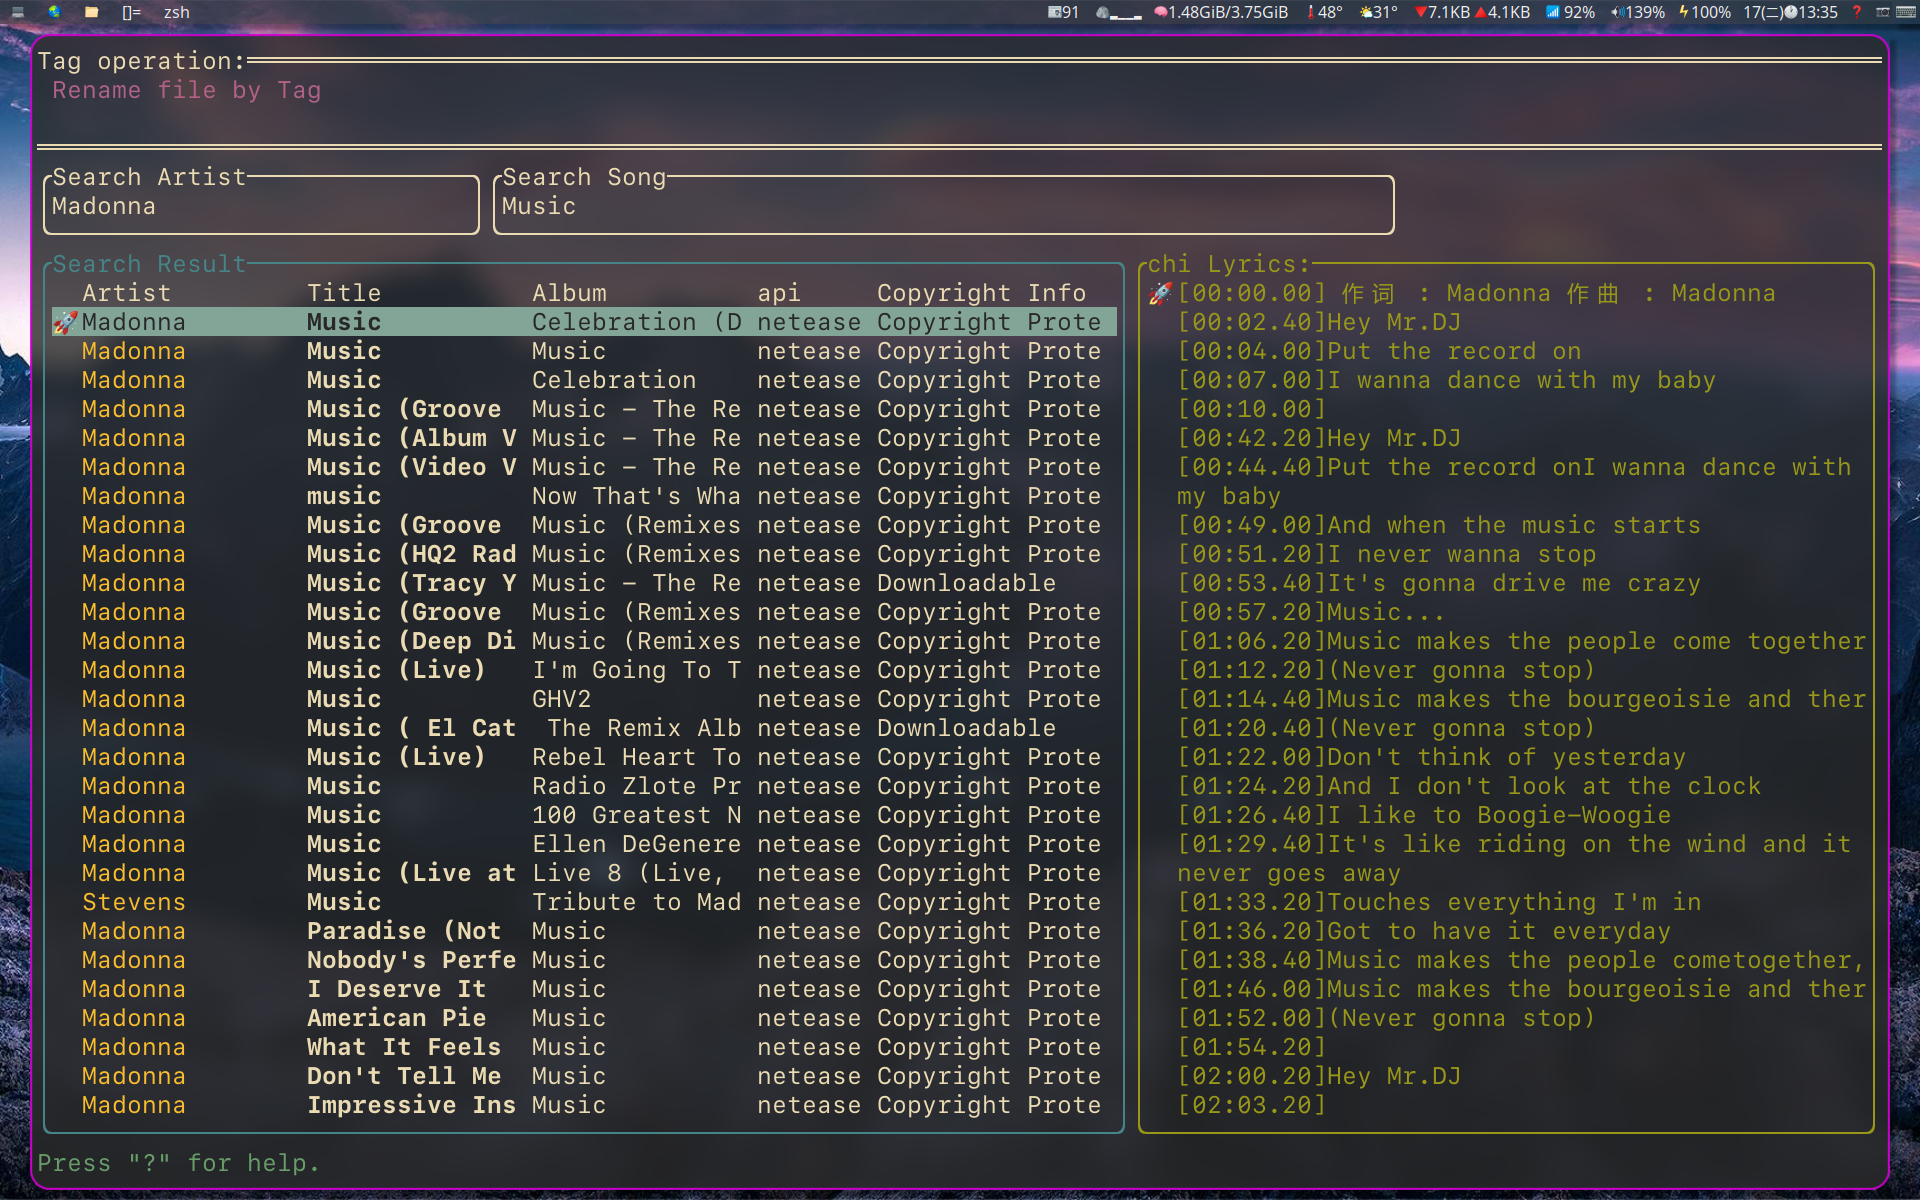
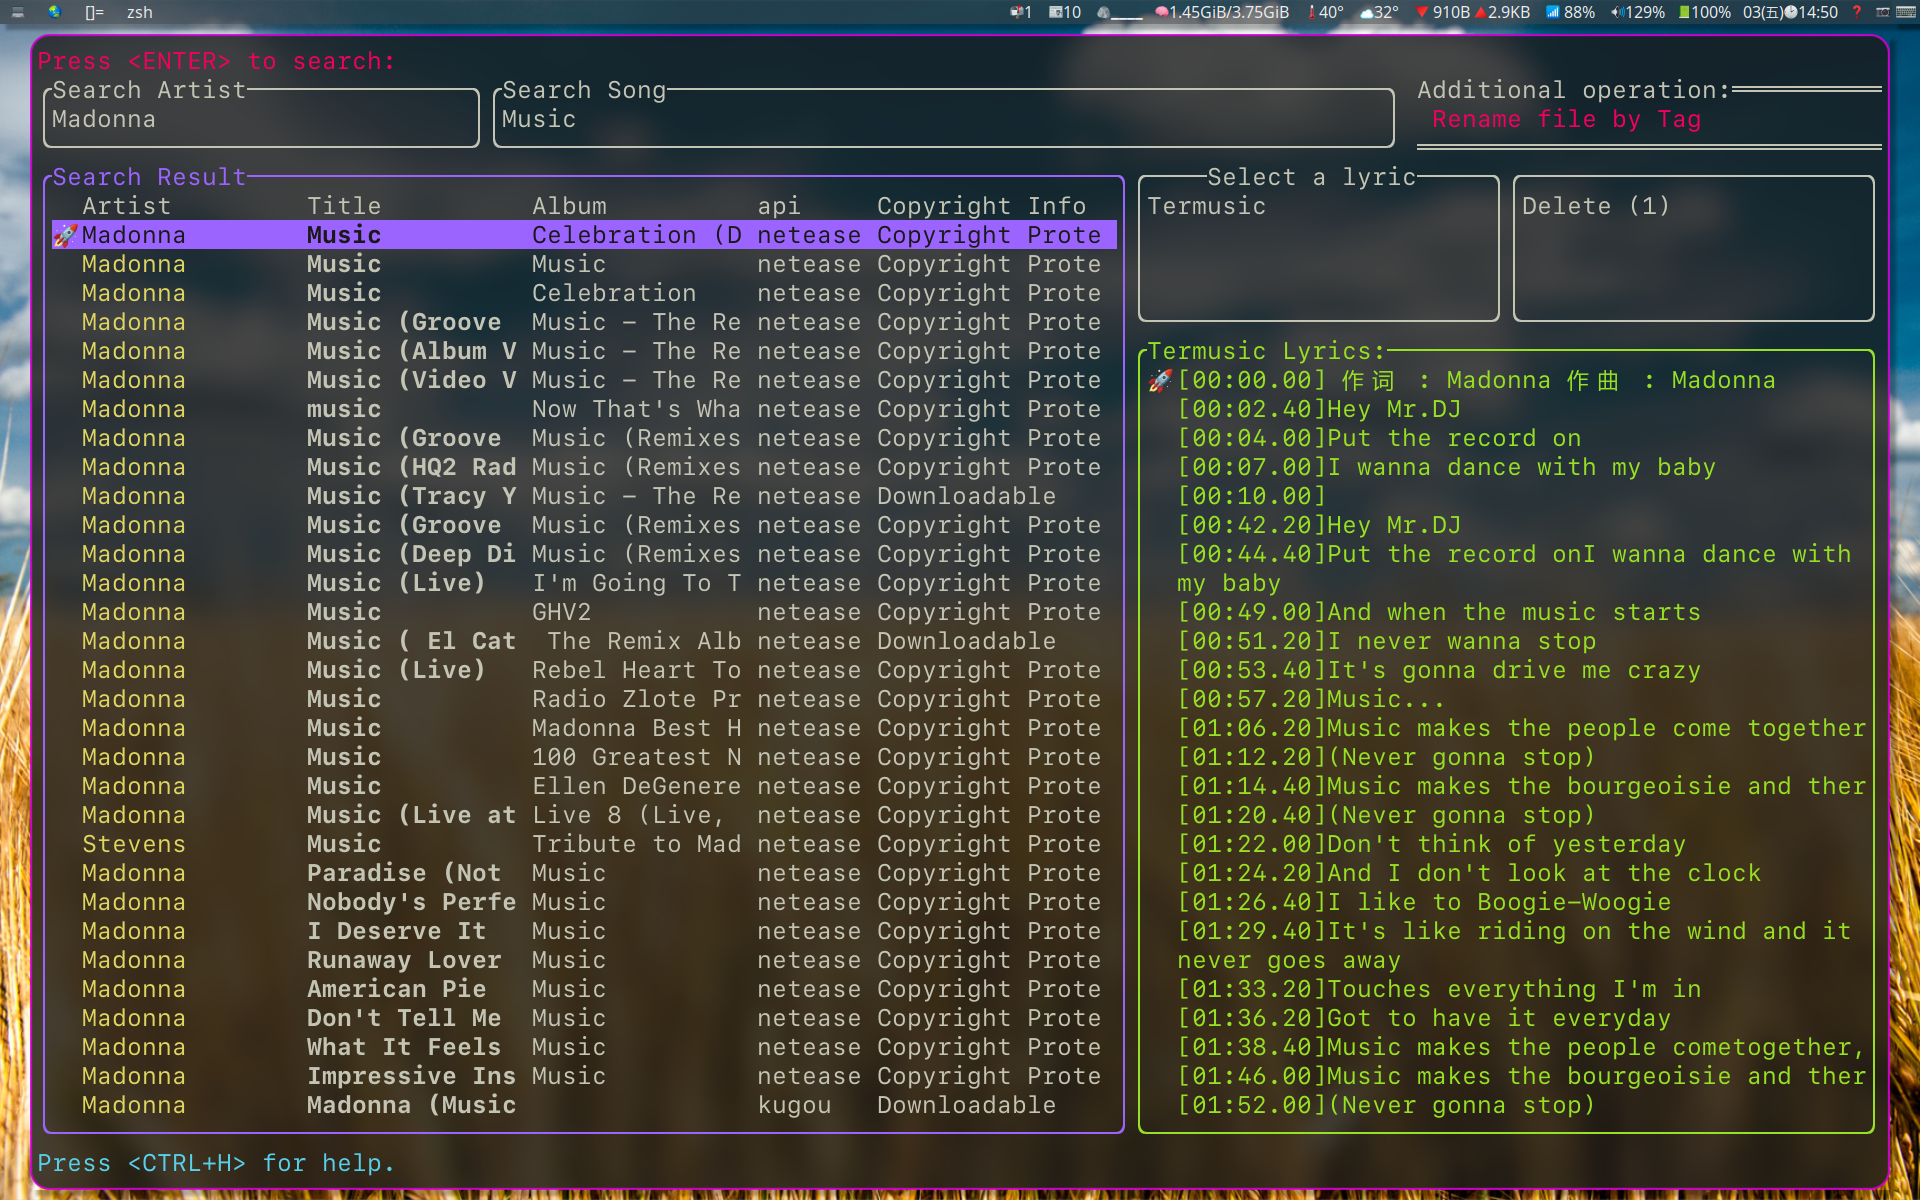
remove dependency of mp3-duration

diff --git a/src/song.rs b/src/song.rs
@@ -27,6 +27,7 @@ use anyhow::{anyhow, Result};
 use humantime::{format_duration, FormattedDuration};
 use id3::frame::{Lyrics, Picture, PictureType};
 use mp4ameta::{Img, ImgFmt};
+// use std::cmp::Ordering;
 use std::ffi::OsStr;
 use std::fs::rename;
 use std::path::Path;
@@ -44,7 +45,7 @@ pub struct Song {
     /// File path to the song
     pub file: Option<String>,
     /// Duration of the song
-    pub duration: Option<Duration>,
+    pub duration: Duration,
     /// Name of the song
     pub name: Option<String>,
     /// Extension of the song
@@ -91,9 +92,26 @@ impl Song {
     }
 
     pub fn duration(&self) -> FormattedDuration {
-        match self.duration.as_ref() {
-            Some(d) => format_duration(Duration::from_secs(d.as_secs())),
-            None => format_duration(Duration::from_secs(0)),
+        format_duration(Duration::from_secs(self.duration.as_secs()))
+    }
+    pub fn update_duration(&mut self) {
+        if let Some(s) = &self.file() {
+            if let Some(ext) = &self.ext {
+                match ext.as_str() {
+                    "mp3" => {
+                        let mut id3_tag = id3::Tag::new();
+                        if let Ok(t) = id3::Tag::read_from_path(s) {
+                            id3_tag = t;
+                        }
+
+                        let duration_player = GSTPlayer::duration(s);
+                        id3_tag.remove_duration();
+                        id3_tag.set_duration(duration_player.mseconds() as u32);
+                        let _ = id3_tag.write_to_path(s, id3::Version::Id3v24);
+                    }
+                    &_ => {}
+                }
+            }
         }
     }
 
@@ -241,10 +259,6 @@ impl FromStr for Song {
         match ext {
             Some("mp3") => {
                 let name = p.file_name().and_then(OsStr::to_str).map(|x| x.to_string());
-                let duration: Option<Duration> = match mp3_duration::from_path(s) {
-                    Ok(d) => Some(d),
-                    Err(_) => Some(Duration::from_secs(0)),
-                };
 
                 let id3_tag = match id3::Tag::read_from_path(s) {
                     Ok(tag) => tag,
@@ -281,7 +295,13 @@ impl FromStr for Song {
                     picture.push(p);
                 }
 
+                let duration = id3_tag
+                    .duration()
+                    .map(|d| Duration::from_millis(d.into()))
+                    .unwrap_or_else(|| Duration::from_secs(0));
+
                 let file = Some(String::from(s));
+
                 Ok(Self {
                     artist,
                     album,
@@ -299,8 +319,6 @@ impl FromStr for Song {
             Some("m4a") => {
                 let name = p.file_name().and_then(OsStr::to_str).map(|x| x.to_string());
 
-                let duration_u64 = GSTPlayer::duration_m4a(s);
-                let duration = Some(Duration::from_secs(duration_u64));
                 let m4a_tag = match mp4ameta::Tag::read_from_path(s) {
                     Ok(t) => t,
                     Err(_) => {
@@ -353,6 +371,8 @@ impl FromStr for Song {
                     });
                 }
 
+                let duration = m4a_tag.duration().unwrap_or_else(|| Duration::from_secs(0));
+
                 let file = Some(String::from(s));
                 Ok(Self {
                     artist,
@@ -373,7 +393,7 @@ impl FromStr for Song {
                 let album = Some(String::from("Not Support?"));
                 let title = Some(String::from(s));
                 let file = Some(String::from(s));
-                let duration = Some(Duration::from_secs(0));
+                let duration = Duration::from_secs(0);
                 let name = Some(String::from(""));
                 let parsed_lyric: Option<Lyric> = None;
                 let lyric_frames: Vec<Lyrics> = Vec::new();

diff --git a/src/ui/activity/main/update.rs b/src/ui/activity/main/update.rs
@@ -489,6 +489,34 @@ impl MainActivity {
         }
     }
 
+    pub fn update_progress_title(&mut self) {
+        if let Some(song) = &self.current_song {
+            let artist = song.artist().unwrap_or("Unknown Artist");
+            let title = song.title().unwrap_or("Unknown Title");
+            if let Some(props) = self.view.get_props(COMPONENT_PROGRESS) {
+                let props = ProgressBarPropsBuilder::from(props)
+                    // .with_progress(new_prog)
+                    .with_title(
+                        format!("Playing: {} - {}", artist, title),
+                        Alignment::Center,
+                    )
+                    .build();
+                let msg = self.view.update(COMPONENT_PROGRESS, props);
+                // self.redraw = true;
+                self.update(msg);
+            }
+        };
+    }
+
+    pub fn update_duration(&mut self) {
+        let (_new_prog, _time_pos, duration) = self.player.get_progress();
+        if let Some(song) = &mut self.current_song {
+            let diff = song.duration.as_secs() as i64 - duration;
+            if diff.abs() > 1 {
+                song.update_duration();
+            }
+        }
+    }
     pub fn update_progress(&mut self) {
         let (new_prog, time_pos, duration) = self.player.get_progress();
         if (new_prog, time_pos, duration) == (0.9, 0, 100) {
@@ -505,18 +533,11 @@ impl MainActivity {
             None => return,
         };
 
-        let artist = song.artist().unwrap_or("Unknown Artist");
-        let title = song.title().unwrap_or("Unknown Title");
-
         if time_pos > self.time_pos || time_pos < 2 {
             self.time_pos = time_pos;
             if let Some(props) = self.view.get_props(COMPONENT_PROGRESS) {
                 let props = ProgressBarPropsBuilder::from(props)
                     .with_progress(new_prog)
-                    .with_title(
-                        format!("Playing: {} - {}", artist, title),
-                        Alignment::Center,
-                    )
                     .with_label(format!(
                         "{}     :     {} ",
                         format_duration(Duration::from_secs(time_pos as u64)),

diff --git a/src/ui/activity/main/mod.rs b/src/ui/activity/main/mod.rs
@@ -36,7 +36,6 @@ mod view;
 mod youtube_options;
 
 // Locals
-// use super::super::super::player::Player;
 use super::{Activity, Context, ExitReason, Status};
 use crate::{
     config::{TermusicConfig, MUSIC_DIR},
@@ -53,7 +52,6 @@ use std::sync::mpsc::{self, Receiver, Sender};
 use std::thread::sleep;
 use std::time::Duration;
 use tui_realm_treeview::Tree;
-// use tuirealm::event::{Event, KeyCode, KeyEvent, KeyModifiers};
 use tuirealm::{Payload, Value, View};
 use youtube_options::{YoutubeOptions, YoutubeSearchState};
 
@@ -184,6 +182,8 @@ impl MainActivity {
                 self.current_song = Some(song);
                 self.sync_queue();
                 self.update_photo();
+                self.update_progress_title();
+                self.update_duration();
             }
             Some(Status::Running) => {}
             Some(Status::Paused) => {}

diff --git a/src/player/gst.rs b/src/player/gst.rs
@@ -53,13 +53,13 @@ impl GSTPlayer {
         }
     }
 
-    pub fn duration_m4a(song: &str) -> u64 {
-        let timeout: gst::ClockTime = gst::ClockTime::from_seconds(1);
-        let mut duration: u64 = 0;
+    pub fn duration(song: &str) -> ClockTime {
+        let timeout: ClockTime = ClockTime::from_seconds(1);
+        let mut duration = ClockTime::from_seconds(0);
         if let Ok(discoverer) = gst_pbutils::Discoverer::new(timeout) {
             if let Ok(info) = discoverer.discover_uri(&format!("file:///{}", song)) {
                 if let Some(d) = info.duration() {
-                    duration = d.seconds();
+                    duration = d;
                 }
             }
         }

diff --git a/src/ui/activity/main/queue.rs b/src/ui/activity/main/queue.rs
@@ -171,9 +171,7 @@ impl MainActivity {
     pub fn update_title(&self) -> String {
         let mut duration = Duration::from_secs(0);
         for v in self.queue_items.iter() {
-            if let Some(d) = v.duration {
-                duration += d;
-            }
+            duration += v.duration;
         }
         format!(
             "─ Queue ───┤ Total {} songs | {} ├─",

diff --git a/README.md b/README.md
@@ -44,6 +44,8 @@ make install
 - Remove the usage of configr, also make the app minimal.
 - Change hotkey for help to Ctrl+h.
 - Rearrange components in tag editor.
+- Embed duration into tag. Load faster.
+- Remove dependency of mp3-duration.
 
 ### [v0.3.7] 
 - Released on: Sep 2, 2021.
